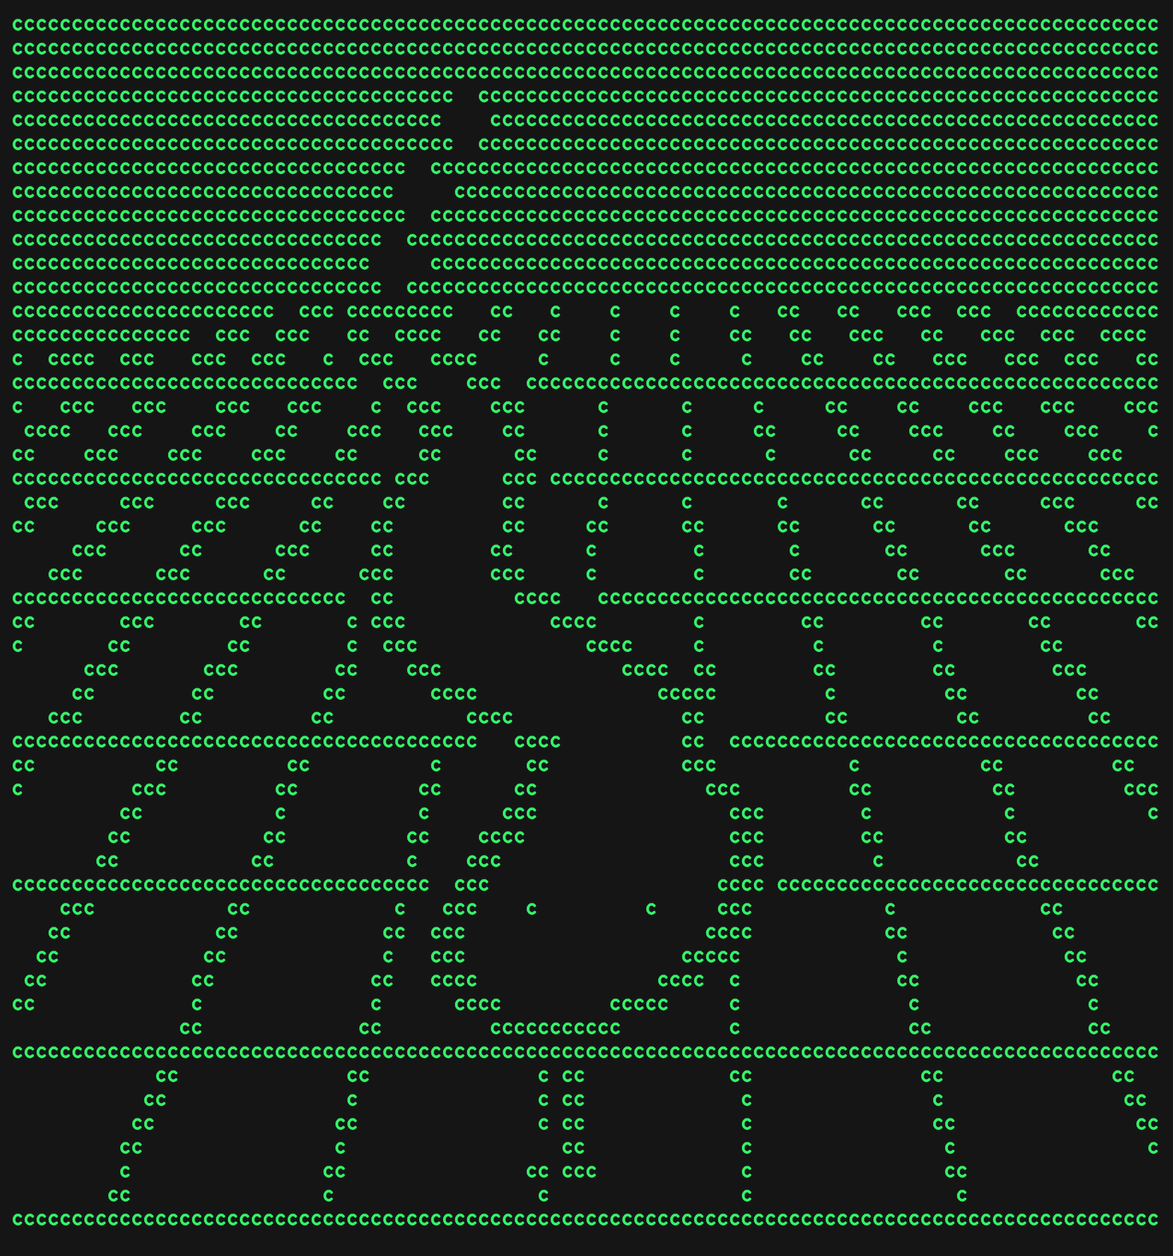
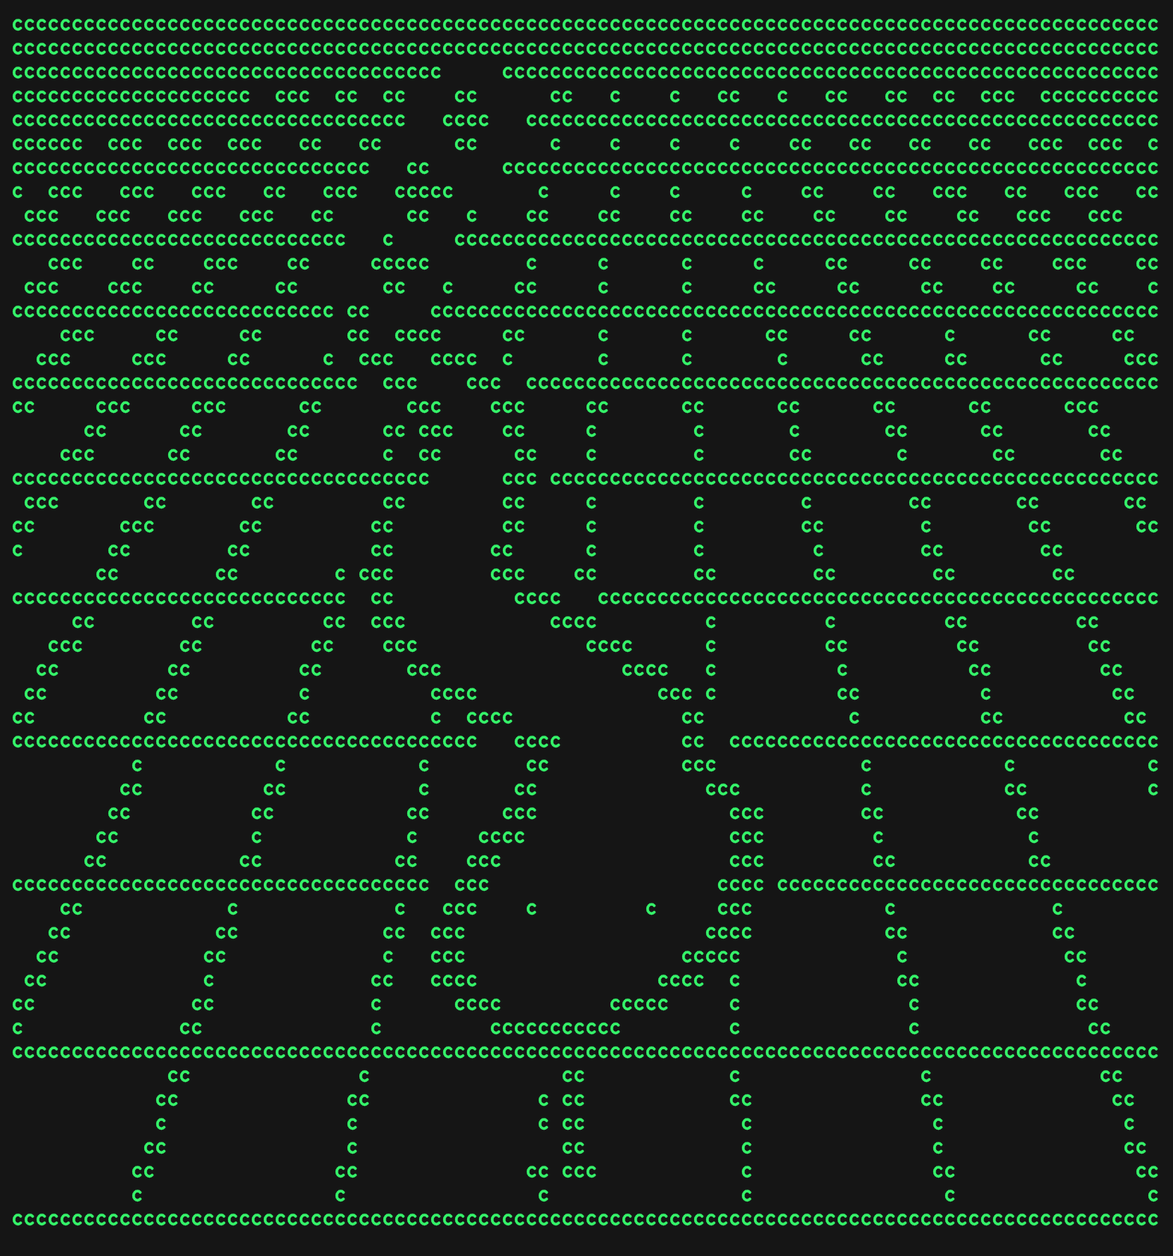
Toy: the grid fades up to the top instead of meeting a solid block
The horizon was solid from the top down to row 11, a quarter of the
view. The grid now runs up to row 2: floor lines close in toward the
top (4, 6, 9, 12) and the fan lines come from a vanishing point 14
rows above the top, so they stay apart near the horizon. On the grid
the rattle is three solid beads in dark pockets; outlined diamonds
merged with the floor lines.

diff --git a/site/logo.c b/site/logo.c
@@ -41,11 +41,11 @@ char logo_out[LOGO_MAX_ROWS * (LOGO_MAX_COLS + 1)]; /* the rows joined by '\n' *
 /* The floor: solid to the horizon, lines across it on these rows, and between them lines fanning out from a
  * vanishing point above the top, half a step either side of it, so that none stands upright (one line through it
  * read as a column) and the floor is patterned right up to the snake, which reads by its dark against it */
-#define LOGO_HORIZON 11
-static const unsigned char logo_floor_lines[] = {15, 19, 24, 30, 36, 43, 50};
+#define LOGO_HORIZON 2
+static const unsigned char logo_floor_lines[] = {4, 6, 9, 12, 15, 19, 24, 30, 36, 43, 50};
 #define LOGO_VANISH_COL 61.5
-#define LOGO_VANISH_ROW (-2.4)
-#define LOGO_FAN 0.345 /* columns between two fan lines per row away from the vanishing point */
+#define LOGO_VANISH_ROW (-14)
+#define LOGO_FAN 0.27 /* columns between two fan lines per row away from the vanishing point */
 
 /* The snake from the tail's end to above its chin, by the dark columns of each row: the body to the neck, then the
  * head, with its eyes on LOGO_EYES_ROW */
@@ -424,11 +424,15 @@ static void logo_draw_rattle(double p) {
     for (k = 0; k < 3; k++, scale *= 0.85) {
         double middle = rows[k + 1];
 
-        for (y = logo_y(middle - 1); y <= logo_y(middle + 1); y++) {
+        /* on the floor's grid, each segment is a solid bead in a dark margin */
+        for (y = logo_y(middle - 2); y <= logo_y(middle + 2); y++) {
             double off = logo_row(y) - middle;
             double half = (2 - 1.5 * (off < 0 ? -off : off)) * scale; /* widest in the middle */
+            double margin = 1 / logo_scale > 0.8 ? 1 / logo_scale : 0.8;
 
-            logo_fill(y, logo_x(cols[k + 1] - half), logo_x(cols[k + 1] + half), ' ');
+            logo_fill(y, logo_x(cols[k + 1] - half - 2 * margin) - 1, logo_x(cols[k + 1] + half + 2 * margin) + 1, ' ');
+            if (off > -1.25 && off < 1.25)
+                logo_fill(y, logo_x(cols[k + 1] - half), logo_x(cols[k + 1] + half), 'c');
         }
     }
 }

diff --git a/AGENTS.md b/AGENTS.md
@@ -157,7 +157,7 @@ Dict in `snakepath.py` mapping error substrings → `(class_name, test_name)` tu
 - When API examples change, update `api_demo.c` first, then its copy in `README.md` (GitHub Pages renders that file as the website through `_layouts/default.html`), and record any new learnings here. `nob` fails (`snakepath.py`) if the copy drifts.
 - The logo (`snakepath.png`: the README image and the site's `og:image`) is ASCII art of a winding path in perspective that is also a snake: the path narrows toward a vanishing point near the horizon the way a body narrows to its tail, and the head faces the viewer in front, with two eyes and a forked tongue. The ground is a floor of lines in perspective: rows across the view whose gaps shrink steadily from 7 rows in front to touching at the horizon, and lines fanning out from the vanishing point; the path's edges stay solid. The maintainer wants it to read as a path, not just a snake, drawn with `c` only (every glyph at full strength, nothing the plain text can't show), on the site's page color (`#151515`), trimmed to the glyphs with a small margin (2026-10-27). A transparent background was tried and dropped: the green was too faint on GitHub's light theme. Rejected along the way: a fade toward the horizon, contour ripples or grooves around the path, a grid of points (its gaps read as noise), and edges in line glyphs; a flat top-down meander read as a maze. Its generator is not in the repo, like other support files.
 - The snake is a rattlesnake (2026-11-07, against readings of the favicon as sperm): its tail ends at mid-distance, a row of floor above it, in a rattle of three segments, each three rows tall and narrower than the one below. A segment is drawn whole and moved by whole columns: one shrunk to two rows loses the middle row that makes it a bead, and one moved by a fraction of a column flickers in width. Rejected on the way: a rattle at the horizon (a notch, or a tower), diamonds with one-column necks (they merge into one shape at the site's size), and diamonds 1, 5, 1 wide (plus signs, since a row is twice as tall as a column is wide).
-- The logo is a toy (2026-11-07): `logo.c` draws it, and it is written there and nowhere else (the maintainer: "the template for the snakepath icon should be written just once in the whole project, and reused"). Every frame is drawn whole from a model, so that "every state should be beautiful in its own right" and is "pixel perfect": the floor (solid to the horizon, floor lines on set rows, and lines fanning from a vanishing point above the top, half a step either side of it so that none stands upright: one through it read as one of "weird 2 columns"; leaving out the two nearest it instead left an empty lane beside the snake, which then lost its outline at real size), the snake from its tail's end to its chin by the dark columns of each row, with an edge on each side, on every row including the floor lines' (so the outline is one unbroken curve, which nothing in the floor of straight lines is: with gaps on the floor rows the snake was lost among the floor's own dark gaps at 2x, "you're not treating me seriously"), drawn like a fan line from where the side is half a row above to half a row below and a model column more (the square of the scale, so heavier at higher resolutions: the floor's lines cross a row in as many columns at every resolution, and at 150 to 192 an outline no heavier than they are dissolved into them), and a dark margin as wide past it so the outline stands apart from the floor at every resolution, its eyes and forked tongue, and the rattle hanging off the tail as a chain whose segments each swing at most `rattle` columns from the one below, the tail tapering into it: its dark narrows row by row from the tail's width to nothing at the first segment's middle ("the solid block between the snake and the diamonds, it should be more fadey"). A dithered fade was tried and dropped: at the site's size a few large cells can't carry a half-tone, and it read as stray glyphs ("this is broken"). An earlier version moved the pixels of one fixed picture; it broke the outline, left holes in the floor, dragged floor glyphs along and let the rattle float off. The model is measured in the columns and rows of the 96-column logo and draws at any width from 96 to 192 characters in the same box ("the view is fixed size"). Five knobs ("only 5 major knobs that are very expressive"), each starting in the middle ("all knobs should start in the middle"): speed, sway, waves, resolution and rattle; the snake crawls: at rest it is main's icon (shifted so the head is in the view's middle, and ending in the rattle), and the drawn S's bends run along the body from the neck toward the tail, so that it is an S in every frame and half a sway on the drawing's mirror image ("implement the full mirror symmetry"; the moving bends are the drawn bend's sine series with each term turned, the discrete Hilbert transform). Toward the tail's end, which is far off and thin, the bends move less: moved as far as near ones, the tail lay flat near the horizon and came apart. The head is drawn in the view's middle ("make the snakes head always be in the direct center of the icon") and nods with a small part of the sway, 3 px each way at the site's 250 px ("The head should move *a bit*, like range +-3 px"). Rejected on the way: turning the whole bend over in place (it passes through a straight body, "really ugly"), a lump where a mirrored bend kept its rows' widths, a crawl with bends growing toward the tail, and a plain sway around a fixed S. When the maintainer could no longer say what was wrong ("I no longer understand what to tell you to get a good artifact"), the fix was to start from main's committed icon and compare against it at real size. Where the body ended up (2026-11-07): drawn 1.18 times as long as main's and 0.7 as wide ("too fat", "make the body more lanky"), with three knees at the default ("And with another knee"), the waves knob setting how many, from one to seven, each the shallower the more there are ("Make sure right means 'more'": it had added lag along the body, which smeared the bends flat), by its distance from a middle line, so its outline is one band of even thickness that never breaks at the neck or a kink, at least 2.2 columns across in every frame and 2 across a row wherever the body runs (measured across the body alone, it was two glyphs where it runs straight down: "gets too thin here"; then 3 was "too busy") (thinner, it fell apart into single glyphs where the body slants at 96: "I don't like the broken stuff here") ("there should be no possible way for the neck to break like this"); main's head as main draws it, row by row, with its edges joined from row to row ("bring back main's head": a diamond head and a rounded one were rejected as "too oval" and "too fat"); the tongue 3/4 of main's. The tail narrows to a point over 5.5 rows ("ever so slightly sharper" than 4), its tip just touching the first rattle segment's lower end ("make the tail extend to a bit sharper before just kissing the rattles"). Default resolution 96, main's grid. Judge it at the maintainer's screen, 1.67 device pixels per CSS pixel, at full size and beside main's icon. A frame is shown cleaned: a 'c' with no other 'c' around it (the eyes aside) is cleared and a ' ' with a 'c' on all four sides filled, since where two shapes meet a column apart they read as broken pixels ("Like pixels that are 'off'"). Judge the toy in frames at the size it is shown, never in shrunken contact sheets or by a count of stray pixels: both passed versions the maintainer saw at once were broken ("you can't seriously tell me this looks good to you"); what used to be fixed is derived from them ("they can be derived from the 5 knobs"): the rattle hangs from the tail's end and its lag continues the wave, and the tongue flicks half as far as the sway. Each knob's position maps through a curve with its default in the middle and ends far enough to feel at once and be a little comical ("we need much larger ranges. Moving the knob end-to-end should be immediately feelable, and also a little comical"): speed 0.03 to 2.4 sways a second, sway 0 (still, main's icon) to 12 (2 is all the way into the mirror image, more a wider swing), waves 0 (the S turns over in place) to 3 (1 is the bends running along it, more adds ripples), resolution 96 to 192, 144 by default (at the site's 250 px the snake reads clearly from about 128 columns, and at 96, main's own grid, it is a busy texture; judged over a whole sway, not in one frame: "the animation needs to work at every point"), rattle 0 to 5. Every state stays whole without a cap: the bends never move a row further against the next than the drawing's own S does, scaled by the sway. The phase is carried on frame to frame, so a change of speed goes on from where the snake is ("resume where it can instead of restarting"). Each frame is drawn as `snakepath.png` is, whole glyphs on a canvas of its own with cells at least 8 pixels wide, then scaled to the box with smoothing, from a canvas of at most 2 device pixels a character (sharper, the floor's glyphs come apart into strokes as heavy as the outline): glyphs drawn straight at a few pixels each overlapped into stripes in netanel.dev's 110 px tile, and blocks in their place read as dashes, which made the toy look nothing like the icon.
+- The logo is a toy (2026-11-07): `logo.c` draws it, and it is written there and nowhere else (the maintainer: "the template for the snakepath icon should be written just once in the whole project, and reused"). Every frame is drawn whole from a model, so that "every state should be beautiful in its own right" and is "pixel perfect": the floor (solid to the horizon, floor lines on set rows, and lines fanning from a vanishing point above the top, half a step either side of it so that none stands upright: one through it read as one of "weird 2 columns"; leaving out the two nearest it instead left an empty lane beside the snake, which then lost its outline at real size), the snake from its tail's end to its chin by the dark columns of each row, with an edge on each side, on every row including the floor lines' (so the outline is one unbroken curve, which nothing in the floor of straight lines is: with gaps on the floor rows the snake was lost among the floor's own dark gaps at 2x, "you're not treating me seriously"), drawn like a fan line from where the side is half a row above to half a row below and a model column more (the square of the scale, so heavier at higher resolutions: the floor's lines cross a row in as many columns at every resolution, and at 150 to 192 an outline no heavier than they are dissolved into them), and a dark margin as wide past it so the outline stands apart from the floor at every resolution, its eyes and forked tongue, and the rattle hanging off the tail as a chain whose segments each swing at most `rattle` columns from the one below, the tail tapering into it: its dark narrows row by row from the tail's width to nothing at the first segment's middle ("the solid block between the snake and the diamonds, it should be more fadey"). A dithered fade was tried and dropped: at the site's size a few large cells can't carry a half-tone, and it read as stray glyphs ("this is broken"). An earlier version moved the pixels of one fixed picture; it broke the outline, left holes in the floor, dragged floor glyphs along and let the rattle float off. The model is measured in the columns and rows of the 96-column logo and draws at any width from 96 to 192 characters in the same box ("the view is fixed size"). Five knobs ("only 5 major knobs that are very expressive"), each starting in the middle ("all knobs should start in the middle"): speed, sway, waves, resolution and rattle; the snake crawls: at rest it is main's icon (shifted so the head is in the view's middle, and ending in the rattle), and the drawn S's bends run along the body from the neck toward the tail, so that it is an S in every frame and half a sway on the drawing's mirror image ("implement the full mirror symmetry"; the moving bends are the drawn bend's sine series with each term turned, the discrete Hilbert transform). Toward the tail's end, which is far off and thin, the bends move less: moved as far as near ones, the tail lay flat near the horizon and came apart. The head is drawn in the view's middle ("make the snakes head always be in the direct center of the icon") and nods with a small part of the sway, 3 px each way at the site's 250 px ("The head should move *a bit*, like range +-3 px"). Rejected on the way: turning the whole bend over in place (it passes through a straight body, "really ugly"), a lump where a mirrored bend kept its rows' widths, a crawl with bends growing toward the tail, and a plain sway around a fixed S. When the maintainer could no longer say what was wrong ("I no longer understand what to tell you to get a good artifact"), the fix was to start from main's committed icon and compare against it at real size. Where the body ended up (2026-11-07): drawn 1.18 times as long as main's and 0.7 as wide ("too fat", "make the body more lanky"), with three knees at the default ("And with another knee"), the waves knob setting how many, from one to seven, each the shallower the more there are ("Make sure right means 'more'": it had added lag along the body, which smeared the bends flat), by its distance from a middle line, so its outline is one band of even thickness that never breaks at the neck or a kink, at least 2.2 columns across in every frame and 2 across a row wherever the body runs (measured across the body alone, it was two glyphs where it runs straight down: "gets too thin here"; then 3 was "too busy") (thinner, it fell apart into single glyphs where the body slants at 96: "I don't like the broken stuff here") ("there should be no possible way for the neck to break like this"); main's head as main draws it, row by row, with its edges joined from row to row ("bring back main's head": a diamond head and a rounded one were rejected as "too oval" and "too fat"); the tongue 3/4 of main's. The tail narrows to a point over 5.5 rows ("ever so slightly sharper" than 4), its tip just touching the first rattle segment's lower end ("make the tail extend to a bit sharper before just kissing the rattles"). Default resolution 96, main's grid. Judge it at the maintainer's screen, 1.67 device pixels per CSS pixel, at full size and beside main's icon. The grid runs up to row 2, its floor lines closing in toward the top (4, 6, 9, 12, then as before) and its fan lines from a vanishing point 14 rows above the top, so it fades into the horizon instead of meeting a solid block that filled the top quarter ("I don't like that by default this is basically a full block of text", "I want the grid to fade out up to a higher point"); on the grid the rattle is three solid beads in dark pockets, the inverse of the holes it was in the solid block, since outlined diamonds merged with the floor lines. A frame is shown cleaned: a 'c' with no other 'c' around it (the eyes aside) is cleared and a ' ' with a 'c' on all four sides filled, since where two shapes meet a column apart they read as broken pixels ("Like pixels that are 'off'"). Judge the toy in frames at the size it is shown, never in shrunken contact sheets or by a count of stray pixels: both passed versions the maintainer saw at once were broken ("you can't seriously tell me this looks good to you"); what used to be fixed is derived from them ("they can be derived from the 5 knobs"): the rattle hangs from the tail's end and its lag continues the wave, and the tongue flicks half as far as the sway. Each knob's position maps through a curve with its default in the middle and ends far enough to feel at once and be a little comical ("we need much larger ranges. Moving the knob end-to-end should be immediately feelable, and also a little comical"): speed 0.03 to 2.4 sways a second, sway 0 (still, main's icon) to 12 (2 is all the way into the mirror image, more a wider swing), waves 0 (the S turns over in place) to 3 (1 is the bends running along it, more adds ripples), resolution 96 to 192, 144 by default (at the site's 250 px the snake reads clearly from about 128 columns, and at 96, main's own grid, it is a busy texture; judged over a whole sway, not in one frame: "the animation needs to work at every point"), rattle 0 to 5. Every state stays whole without a cap: the bends never move a row further against the next than the drawing's own S does, scaled by the sway. The phase is carried on frame to frame, so a change of speed goes on from where the snake is ("resume where it can instead of restarting"). Each frame is drawn as `snakepath.png` is, whole glyphs on a canvas of its own with cells at least 8 pixels wide, then scaled to the box with smoothing, from a canvas of at most 2 device pixels a character (sharper, the floor's glyphs come apart into strokes as heavy as the outline): glyphs drawn straight at a few pixels each overlapped into stripes in netanel.dev's 110 px tile, and blocks in their place read as dashes, which made the toy look nothing like the icon.
 - The toy is a widget, `<snakepath-toy>` in `toy.js`: `logo.wasm` in a worker draws on an `OffscreenCanvas` off the page's thread (the maintainer: "the rendering should be off the main thread"), and with the `controls` attribute the knobs, a reset and an export float over its top right, over the horizon where the snake never reaches, in pixels so they keep their size on every screen (10 px text, 118 px wide, at 0.9 opacity until hovered), with thin sliders ("make the knobs appear on the animation, but slightly opaque, and smaller", "make the literal knob much less fat"). When the page may not write to the clipboard (an iframe without `allow="clipboard-write"`), export shows the command in a prompt instead. What is inside the element (`snakepath.png`) shows until it draws, and stays without JavaScript, a worker, WebAssembly or with reduced motion. The site's hero is one, and `toy.html` is the toy alone filling its frame for other pages (netanel.dev's tile embeds it; `toy.html?controls` shows the knobs). Export copies a command like the README's snippet that fetches `snake.c`, compiles it with the chosen settings and runs it: `curl -sSL https://snakepath.dev/snake.c | cc -std=c99 '-DLOGO_SETTINGS={...}' -xc - -o snake && ./snake`. `snake.c` is made by `./nob snake`: `logo.c` with `LOGO_MAIN` and, in place of its `#include "snakepath.h"`, `snakepath.h` cut down by `trim.h` to what it uses; it plays the snake in a terminal, fitting each frame to the terminal's size (larger, its lines wrapped and every frame scrolled on below the last: "the export seems to append rather than overwrite"), or with a directory writes one sway there, a file per frame, through snakepath. `logo.wasm` and `snake.c` are built in CI, never committed: CI's `site` job builds the site with Pages' builder and adds them, and `deploy-site` deploys it from `main`, so Pages' source is GitHub Actions. `snakepath.png` (the share image and the fallback) is `logo.c`'s frame at rest, and `snakepath.gif` (the README's logo on GitHub, which runs no scripts) one sway at the defaults, made by `logo.c` compiled natively; both are regenerated when the model or its defaults change.
 - `trim.h` (2026-11-07) cuts a C header down to what a program uses, its own header and not part of snakepath: the caller gives all the context (the header's text, the program's text, whose identifiers are the roots, and the `#ifdef` blocks to leave out), and it keeps every file-scope definition (function, prototype, variable, type, `#define`) that the program names, directly or through what it keeps, on every `#if` branch, with everything that is no definition (includes, `#if` lines and what they name). It reads C as clang-format lays it out: a function's body ends on its first line or at a `}` that starts a line, since counting braces fails where `#if` branches each open or close their own. nob tests it on every configuration: the default run trims `snakepath.h` to what `test.c` uses and runs the whole suite against it with every compiler and language (`trim_out/`, and MSVC C and C++ in `build-windows`), and builds `snake.c` with the C compilers (`-Werror`, clang's `-Weverything`) and runs it in frames mode.
 - The site (`README.md` through `_layouts/default.html`) fitted one screen, collapsibles closed, at the maintainer's browser size of about 1333×730 CSS pixels (2026-11-01); since the logo became a toy (2026-11-07), the hero is two columns, the toy and the text (the maintainer chose a big hero over fitting one screen, then "the size should be 300px, not 500px", then "make the icon and text panels the same width", then "Make the snake 250px wide": the toy is 250 px and the text takes the rest), so the demo code starts lower. The header is a hero: the logo, a large title, the tagline and the README's intro (everything above its `<!-- The site shows the text above in its header, beside the logo. -->` comment, which the layout splits on), with the GitHub button beside the title. Below it, one column: the demo code, Build & Test on one line with its command, the license, and the API reference last; code blocks are as wide as their code. The page is a centered column at most 52rem wide, about the demo code's width, and from 1700px everything is 12.5% larger. Rejected: the demo code floated right (it squeezed and clipped the opened reference), the logo alone under the collapsibles beside an empty gap ("this sucks"), intro and logo stacked on the left of a 1120px column ("messy", too much margin), content 1520px wide and left-aligned ("too wide", then "center everything again"), logo, text and code as three columns with a gap in the text column ("still sucks"), and the GitHub button at the hero's right edge, which made the page wider than its content. When the maintainer can't say what's wrong with a layout, build a few distinct variants as pages served locally and let them pick. Check a layout change in headless Chrome at that size and at 1920×1080 before pushing it. To serve the site locally as Pages builds it, copy `README.md` into `site/` (CI does the same) and run CI's builder image (`ghcr.io/actions/jekyll-build-pages`, which needs Docker) with Ruby as the entrypoint, `require "github-pages"`, and run `Jekyll::Commands::Build.process` then `Serve.process` with `watch` and `force_polling` on `site/` mounted read-only; it rebuilds on every save.
